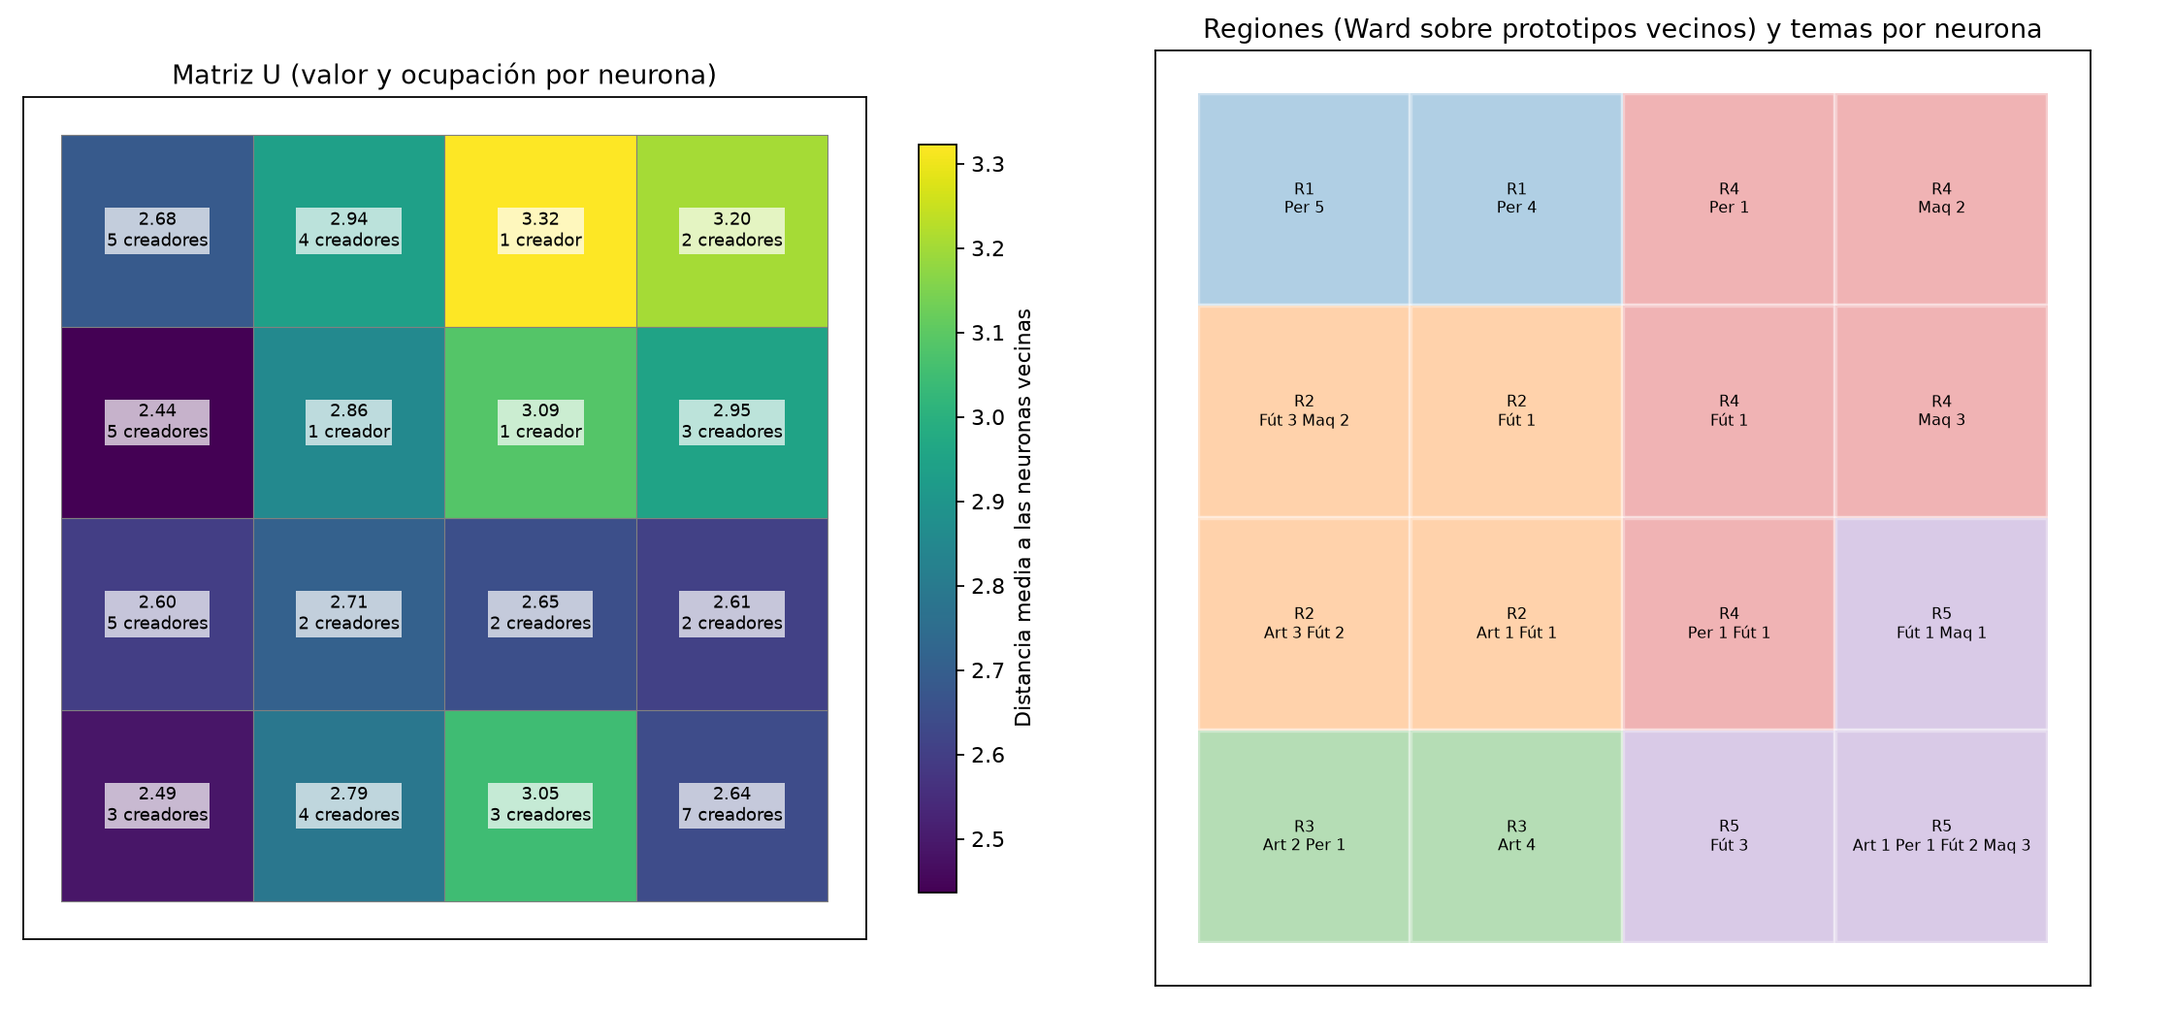
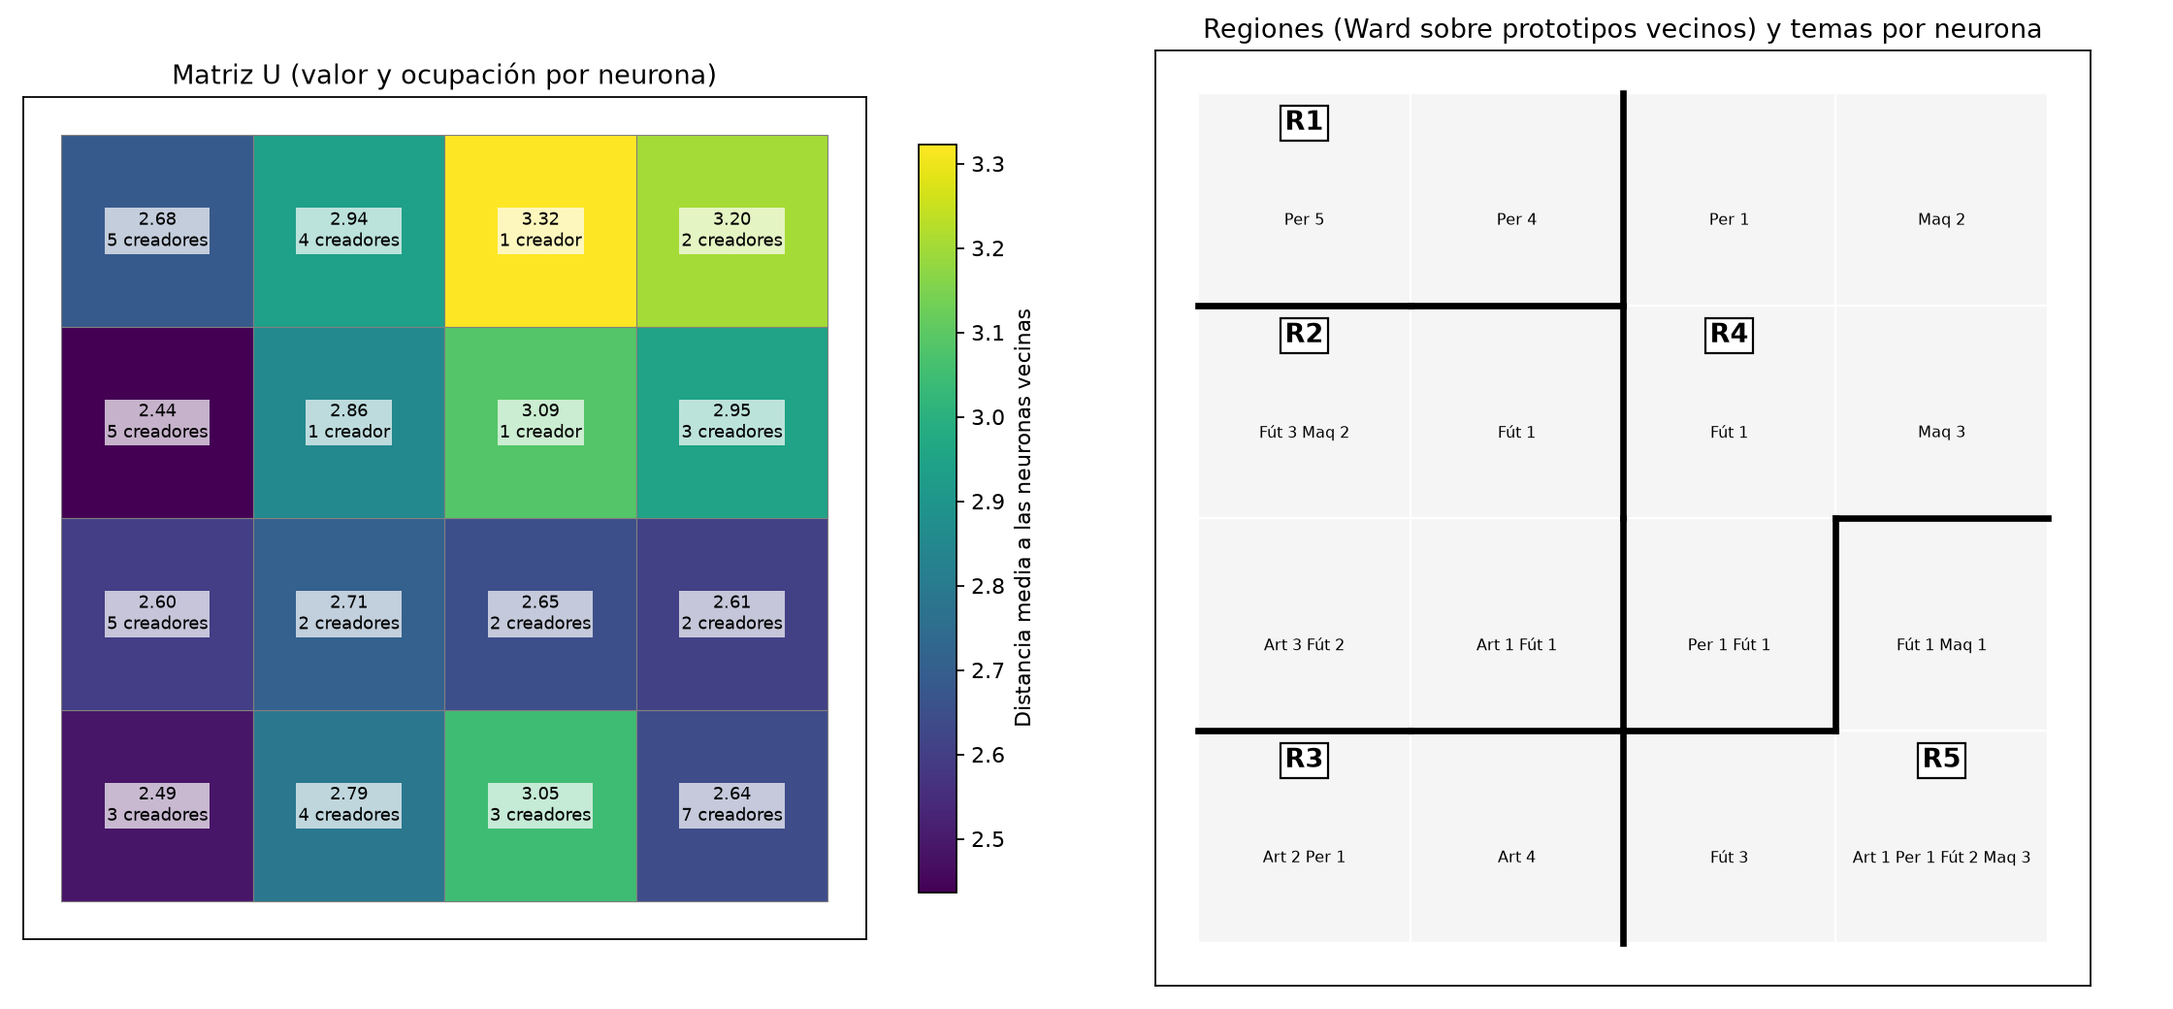
feat(tp4): cruza regiones y temas y deja el color solo para los temas
Agrega el grafico de regiones por tema (pureza y V de Cramer frente a
regiones al azar). Las regiones se dibujan con bordes y etiquetas en
lugar de colores, que en todo el informe identifican temas.

diff --git a/TP4/analysis/som_plots.py b/TP4/analysis/som_plots.py
@@ -6,10 +6,8 @@ from matplotlib.collections import PolyCollection
 import numpy as np
 
 from .eda import TOPICS
-from .plots import TOPIC_LABELS, _save
+from .plots import TOPIC_COLORS, TOPIC_LABELS, _save, _topic_legend
 
-REGION_COLORS = [f'C{index}' for index in range(10)]
-TOPIC_MARKERS = dict(zip(TOPICS, 'os^D'))
 LOG_PLANES = {'followers', 'price_usd'}
 
 
@@ -38,22 +36,48 @@ def plot_map(catalog, topics, output):
                      bbox={'facecolor': 'white', 'alpha': .7, 'edgecolor': 'none', 'pad': 1})
     axes[0].set_title('Matriz U (valor y ocupación por neurona)')
 
-    colors = [REGION_COLORS[label] for label in catalog.neuron_regions]
-    polygons = [grid.layout.cell_vertices(center) for center in grid.positions]
-    axes[1].add_collection(PolyCollection(polygons, facecolors=colors, alpha=.35, edgecolors='white', linewidths=2))
-    axes[1].autoscale_view()
-    axes[1].invert_yaxis()
-    axes[1].set_aspect('equal')
-    axes[1].set_xticks([])
-    axes[1].set_yticks([])
-    for neuron, ((column, row), label) in enumerate(zip(grid.positions, catalog.neuron_regions)):
+    draw_region_map(axes[1], catalog)
+    for neuron, (column, row) in enumerate(grid.positions):
         members = catalog.winners == neuron
         composition = ' '.join(f'{TOPIC_LABELS[t][:3]} {count}' for t, count in
                                zip(*np.unique(topics[members], return_counts=True))) if members.any() else 'vacía'
-        axes[1].text(column, row, f'{catalog.region_names[label]}\n{composition}', ha='center', va='center',
-                     fontsize=7)
+        axes[1].text(column, row + .1, composition, ha='center', va='center', fontsize=7)
     axes[1].set_title('Regiones (Ward sobre prototipos vecinos) y temas por neurona')
     _save(fig, output / 'mapa.png')
+
+
+def draw_region_map(ax, catalog, facecolors='whitesmoke'):
+    """Grilla con los bordes de las regiones y su nombre. Las regiones no usan color de relleno, porque los
+    colores del informe identifican temas; facecolors permite pintar cada neurona con otra variable."""
+    grid = catalog.som.grid
+    polygons = [grid.layout.cell_vertices(center) for center in grid.positions]
+    ax.add_collection(PolyCollection(polygons, facecolors=facecolors, edgecolors='white', linewidths=1))
+    draw_region_borders(ax, catalog)
+    for label, region in enumerate(catalog.region_names):
+        # La etiqueta va en la neurona de la región más cercana a su centro: el centro puede caer en un borde.
+        cells = grid.positions[catalog.neuron_regions == label]
+        column, row = cells[np.linalg.norm(cells - cells.mean(axis=0), axis=1).argmin()]
+        ax.text(column, row - .36, region, ha='center', va='center', weight='bold', fontsize=12,
+                bbox={'facecolor': 'white', 'edgecolor': 'black', 'pad': 2})
+    ax.autoscale_view()
+    ax.invert_yaxis()
+    ax.set_aspect('equal')
+    ax.set_xticks([])
+    ax.set_yticks([])
+
+
+def draw_region_borders(ax, catalog):
+    """Línea gruesa en cada lado compartido por dos neuronas vecinas de regiones distintas."""
+    grid = catalog.som.grid
+    first, second = np.where(np.triu(grid.adjacency, 1))
+    for a, b in zip(first, second):
+        if catalog.neuron_regions[a] == catalog.neuron_regions[b]:
+            continue
+        vertices_b = grid.layout.cell_vertices(grid.positions[b])
+        shared = [vertex for vertex in grid.layout.cell_vertices(grid.positions[a])
+                  if np.min(np.linalg.norm(vertices_b - vertex, axis=1)) < 1e-6]
+        if len(shared) == 2:
+            ax.plot(*np.array(shared).T, color='black', lw=3)
 
 
 def plot_component_planes(grid, planes, output):
@@ -73,21 +97,17 @@ def plot_component_planes(grid, planes, output):
 
 
 def plot_regions_on_pca(frame, output):
-    """Plano PC1–PC2 del biplot con cada creador coloreado por su región del SOM."""
+    """Plano PC1–PC2 del biplot: cada creador con el color de su tema y cada región como el contorno de sus creadores."""
+    from scipy.spatial import ConvexHull
     fig, ax = plt.subplots(figsize=(11, 8))
-    regions = sorted(frame.region.unique())
-    for index, region in enumerate(regions):
-        members = frame[frame.region == region]
-        for topic, marker in TOPIC_MARKERS.items():
-            subset = members[members.main_topic == topic]
-            ax.scatter(subset.pc1, subset.pc2, color=REGION_COLORS[index], marker=marker, s=45)
-        ax.annotate(region, (members.pc1.mean(), members.pc2.mean()), fontsize=14, weight='bold',
-                    color=REGION_COLORS[index], ha='center', va='center')
-    region_handles = [plt.Line2D([], [], marker='o', ls='', color=REGION_COLORS[index]) for index in range(len(regions))]
-    topic_handles = [plt.Line2D([], [], marker=marker, ls='', color='gray') for marker in TOPIC_MARKERS.values()]
-    first = ax.legend(region_handles, regions, title='Región SOM', loc='upper left')
-    ax.add_artist(first)
-    ax.legend(topic_handles, [TOPIC_LABELS[topic] for topic in TOPICS], title='Tema principal', loc='upper right')
+    ax.scatter(frame.pc1, frame.pc2, c=frame.main_topic.map(TOPIC_COLORS), s=45)
+    for region in sorted(frame.region.unique()):
+        points = frame.loc[frame.region == region, ['pc1', 'pc2']].to_numpy()
+        hull = points[ConvexHull(points).vertices]
+        ax.fill(*hull.T, facecolor='none', edgecolor='dimgray', lw=1.5, ls='--')
+        ax.text(*points.mean(axis=0), region, fontsize=13, weight='bold', ha='center', va='center',
+                bbox={'facecolor': 'white', 'edgecolor': 'black', 'pad': 2})
+    _topic_legend(ax, loc='upper right')
     ax.axhline(0, color='black', lw=.4)
     ax.axvline(0, color='black', lw=.4)
     ax.set(xlabel='PC1 (− visibilidad · + profundidad)', ylabel='PC2 (+ arte y exhibición · − audiencia argentina y perros)',
@@ -118,16 +138,20 @@ def plot_region_agreement(reference, partitions, output):
 
 
 def plot_regions_3d(frame, output):
-    """PC1–PC3 coloreado por región del SOM: muestra qué separa el mapa más allá del plano del biplot."""
+    """PC1–PC3 con el color de cada tema y el nombre de cada región en su centro: muestra qué separa el mapa
+    más allá del plano del biplot."""
     from .plots import scatter_3d
-    regions = sorted(frame.region.unique())
-    colors = frame.region.map({region: REGION_COLORS[index] for index, region in enumerate(regions)}).to_numpy()
+    scores = frame[['pc1', 'pc2', 'pc3']].to_numpy()
+    colors = frame.main_topic.map(TOPIC_COLORS).to_numpy()
+    centers = frame.groupby('region')[['pc1', 'pc2', 'pc3']].mean()
     fig = plt.figure(figsize=(15, 6.5))
     for position, (elevation, azimuth) in enumerate([(20, -60), (15, 30)], start=1):
         ax = fig.add_subplot(1, 2, position, projection='3d')
-        scatter_3d(ax, frame[['pc1', 'pc2', 'pc3']].to_numpy(), colors, ['PC1', 'PC2', 'PC3'])
+        scatter_3d(ax, scores, colors, ['PC1', 'PC2', 'PC3'])
+        for region, center in centers.iterrows():
+            ax.text(*center, region, fontsize=12, weight='bold', ha='center',
+                    bbox={'facecolor': 'white', 'edgecolor': 'black', 'pad': 2})
         ax.view_init(elevation, azimuth)
-    handles = [plt.Line2D([], [], marker='o', ls='', color=REGION_COLORS[index]) for index in range(len(regions))]
-    fig.axes[0].legend(handles, regions, title='Región SOM', loc='upper left')
+    _topic_legend(fig.axes[0], loc='upper left')
     fig.suptitle('Regiones del SOM en PC1–PC3: dos vistas')
     _save(fig, output / 'regiones_pca_3d.png')

diff --git a/TP4/analysis/campaign_plots.py b/TP4/analysis/campaign_plots.py
@@ -5,13 +5,13 @@ Cada gráfico muestra un resultado de los métodos (PCA, Oja, Kohonen) sobre el 
 import matplotlib
 matplotlib.use('Agg')
 import matplotlib.pyplot as plt
-from matplotlib.colors import ListedColormap
+from matplotlib.colors import to_rgba
 from matplotlib.ticker import LogLocator, ScalarFormatter
 import numpy as np
 
 from .eda import TOPICS
 from .plots import TOPIC_COLORS, TOPIC_LABELS, _save
-from .som_plots import REGION_COLORS, _cells
+from .som_plots import _cells, draw_region_borders, draw_region_map
 
 COST_LABEL = 'USD por 1.000 cuentas argentinas'
 FOLLOWERS_COLOR, CHOSEN_COLOR, OTHER_COLOR = 'C1', 'C0', 'lightgray'
@@ -77,24 +77,54 @@ def plot_map_targets(catalog, ar_plane, chosen, target_regions, output):
     """Izquierda: regiones del mapa con la región de cada cliente y sus elegidos. Derecha: plano de audiencia argentina."""
     grid = catalog.som.grid
     fig, axes = plt.subplots(1, 2, figsize=(15, 6.5))
-    regions = _cells(axes[0], grid, catalog.neuron_regions, ListedColormap(REGION_COLORS[:len(catalog.region_names)]),
-                     edgecolors='white', linewidths=2)
-    regions.set_alpha(.35)
+    draw_region_map(axes[0], catalog)
     neurons = chosen.neuron.to_numpy()
-    for position, ((column, row), label) in enumerate(zip(grid.positions, catalog.neuron_regions)):
+    for position, (column, row) in enumerate(grid.positions):
         cell = '{},{}'.format(*grid.indices[position])
         names = '\n'.join(chosen.name[neurons == cell])
-        axes[0].text(column, row - .32, catalog.region_names[label], ha='center', va='center', weight='bold')
-        axes[0].text(column, row + .08, names, ha='center', va='center', fontsize=7)
+        axes[0].text(column, row + .12, names, ha='center', va='center', fontsize=7)
     axes[0].set_title('Regiones y elegidos\n' + _client_targets(target_regions))
 
     plane = _cells(axes[1], grid, ar_plane, 'viridis')
     fig.colorbar(plane, ax=axes[1], shrink=.8, label='Audiencia argentina del prototipo (%)')
+    draw_region_borders(axes[1], catalog)
     for position, ((column, row), label) in enumerate(zip(grid.positions, catalog.neuron_regions)):
         axes[1].text(column, row, f'{catalog.region_names[label]}\n{ar_plane[position]:.0f} %', ha='center',
                      va='center', fontsize=9, bbox={'facecolor': 'white', 'alpha': .7, 'edgecolor': 'none', 'pad': 1})
     axes[1].set_title('Plano de audiencia argentina')
     _save(fig, output / '3_mapa_clientes.png')
+
+
+def plot_region_topics(catalog, topics, association, output):
+    """Izquierda: cada neurona con el color de su tema mayoritario y los bordes de las regiones encima.
+    Derecha: composición temática de cada región."""
+    grid = catalog.som.grid
+    fig, axes = plt.subplots(1, 2, figsize=(15, 6.5), gridspec_kw={'width_ratios': [1, 1.1]})
+    facecolors = []
+    for neuron, (column, row) in enumerate(grid.positions):
+        names, counts = np.unique(topics[catalog.winners == neuron], return_counts=True)
+        # Más intenso cuanto mayor es la fracción del tema mayoritario en la neurona.
+        facecolors.append(to_rgba(TOPIC_COLORS[names[counts.argmax()]], .25 + .6 * counts.max() / counts.sum()))
+        composition = '\n'.join(f'{TOPIC_LABELS[name]} {count}' for name, count in
+                                sorted(zip(names, counts), key=lambda pair: -pair[1]))
+        axes[0].text(column, row + .08, composition, ha='center', va='center', fontsize=8)
+    draw_region_map(axes[0], catalog, facecolors)
+    axes[0].set_title('Tema mayoritario por neurona (más intenso = más puro) y regiones')
+
+    counts = association.counts
+    left = np.zeros(len(counts))
+    for topic in TOPICS:
+        axes[1].barh(counts.index, counts[topic], left=left, color=TOPIC_COLORS[topic], label=TOPIC_LABELS[topic])
+        for position, (start, value) in enumerate(zip(left, counts[topic])):
+            if value:
+                axes[1].text(start + value / 2, position, str(value), ha='center', va='center', color='white')
+        left += counts[topic].to_numpy()
+    axes[1].invert_yaxis()
+    axes[1].set(xlabel='Creadores', title=(
+        f'Pureza {_decimal(association.purity, ".2f")} (azar {_decimal(association.random_purity, ".2f")}) · '
+        f'V de Cramér {_decimal(association.cramers_v, ".2f")} (azar {_decimal(association.random_cramers_v, ".2f")})'))
+    axes[1].legend(title='Tema principal', loc='upper left', bbox_to_anchor=(1.01, 1))
+    _save(fig, output / '4_regiones_temas.png')
 
 
 def _client_targets(target_regions):
@@ -116,7 +146,7 @@ def plot_region_separation(separation, random_baseline, output):
     for position, value in enumerate(ordered):
         ax.text(value + .01, position, _decimal(value, '.2f'), va='center')
     ax.set(xlabel='η² por región', xlim=(0, 1))
-    _save(fig, output / '4_separacion.png')
+    _save(fig, output / '5_separacion.png')
 
 
 def plot_candidates(frame, selections, target_regions, output):
@@ -144,7 +174,7 @@ def plot_candidates(frame, selections, target_regions, output):
                plt.Line2D([], [], marker='s', ls='', mfc='none', mec=FOLLOWERS_COLOR, ms=12, label='Top 3 por seguidores'),
                plt.Line2D([], [], marker='o', ls='', mfc='none', mec='black', ms=12, label='Elegidos')]
     fig.legend(handles=handles, loc='upper center', ncol=4, frameon=False)
-    _save(fig, output / '5_candidatos.png', rect=(0, 0, 1, .96))
+    _save(fig, output / '6_candidatos.png', rect=(0, 0, 1, .96))
 
 
 def _ring(ax, creators, color, marker, label):
@@ -192,4 +222,4 @@ def plot_against_followers(selections, output):
     for position, (before, after) in enumerate(zip(table['cpm_arg', 'seguidores'], table['cpm_arg', 'som'])):
         axes[0].text(position + width / 2, after, _decimal(after / before - 1, '+.0%'), ha='center', va='bottom')
     fig.legend(*axes[0].get_legend_handles_labels(), loc='upper center', ncol=2, frameon=False)
-    _save(fig, output / '6_frente_a_seguidores.png', rect=(0, 0, 1, .92))
+    _save(fig, output / '7_frente_a_seguidores.png', rect=(0, 0, 1, .92))

diff --git a/TP4/analysis/som_campanas.py b/TP4/analysis/som_campanas.py
@@ -140,6 +140,37 @@ def region_separation(frame):
     return separation, random_baseline
 
 
+@dataclass(frozen=True)
+class TopicAssociation:
+    """Cruce región × tema, con pureza y V de Cramér frente a regiones del mismo tamaño asignadas al azar."""
+    counts: pd.DataFrame
+    purity: float
+    cramers_v: float
+    random_purity: float
+    random_cramers_v: float
+
+
+def region_topic_association(frame, permutations=1000, seed=0):
+    regions, topics = frame.region.to_numpy(), frame.main_topic.to_numpy()
+    rng = np.random.default_rng(seed)
+    shuffled = [rng.permutation(regions) for _ in range(permutations)]
+    return TopicAssociation(
+        counts=pd.crosstab(frame.region, frame.main_topic).reindex(columns=TOPICS, fill_value=0),
+        purity=topic_purity(regions, topics), cramers_v=cramers_v(regions, topics),
+        random_purity=float(np.mean([topic_purity(sample, topics) for sample in shuffled])),
+        random_cramers_v=float(np.mean([cramers_v(sample, topics) for sample in shuffled])))
+
+
+def cramers_v(first, second):
+    """Asociación entre dos variables categóricas: 0 si son independientes, 1 si una determina a la otra."""
+    table = pd.crosstab(np.asarray(first), np.asarray(second)).to_numpy()
+    if min(table.shape) < 2:
+        raise ValueError('V de Cramér requiere al menos dos categorías en cada variable')
+    expected = table.sum(axis=1, keepdims=True) * table.sum(axis=0, keepdims=True) / table.sum()
+    chi_squared = ((table - expected) ** 2 / expected).sum()
+    return float(np.sqrt(chi_squared / (table.sum() * (min(table.shape) - 1))))
+
+
 def topic_region_options(frame):
     """Qué tipos de creador hay para cada cliente: candidatos de su tema, separados por región."""
     grouped = frame.groupby(['main_topic', 'region'])
@@ -269,6 +300,7 @@ def _plot_campaigns(frame, x, preprocessor, catalog, criteria, selections, outpu
     plots.plot_oja_axis(frame, criteria, chosen, output)
     ar_plane = neuron_planes(catalog, preprocessor)['argentina_audience_pct']
     plots.plot_map_targets(catalog, ar_plane, chosen, TARGET_REGIONS, output)
+    plots.plot_region_topics(catalog, frame.main_topic.to_numpy(), region_topic_association(frame), output)
     plots.plot_region_separation(*region_separation(frame), output)
     plots.plot_candidates(frame, selections, TARGET_REGIONS, output)
     plots.plot_against_followers(selections, output)

diff --git a/TP4/tests/test_som_regions.py b/TP4/tests/test_som_regions.py
@@ -4,7 +4,7 @@ import unittest
 import numpy as np
 import pandas as pd
 
-from analysis.som_campanas import _order_by_median, region_separation
+from analysis.som_campanas import _order_by_median, cramers_v, region_separation
 from analysis.som_pca_comparison import aligned_to_reference
 from analysis.som_regions import co_assignment, contiguous_ward, membership_firmness
 from src.tp4.geometry import Grid
@@ -74,6 +74,18 @@ class SeparationTests(unittest.TestCase):
     def test_random_baseline_is_the_expected_eta_squared_of_random_groups(self):
         _, baseline = region_separation(self.frame)
         self.assertAlmostEqual(baseline, (3 - 1) / (6 - 1))
+
+
+class CramersVTests(unittest.TestCase):
+    def test_is_one_when_the_region_determines_the_topic(self):
+        self.assertAlmostEqual(cramers_v(['R1', 'R1', 'R2', 'R2'], ['dogs', 'dogs', 'art', 'art']), 1.0)
+
+    def test_is_zero_when_every_region_has_the_same_topic_mix(self):
+        self.assertAlmostEqual(cramers_v(['R1', 'R1', 'R2', 'R2'], ['dogs', 'art', 'dogs', 'art']), 0.0)
+
+    def test_rejects_a_single_category(self):
+        with self.assertRaises(ValueError):
+            cramers_v(['R1', 'R1'], ['dogs', 'art'])
 
 
 if __name__ == '__main__':

diff --git a/TP4/reports/ejercicio1/campanas/README.md b/TP4/reports/ejercicio1/campanas/README.md
@@ -48,11 +48,20 @@ El mapa agrupa a los creadores en cinco regiones contiguas, estables entre semil
 | R4 | Entretenimiento mediano | −1,3 | −0,7 |
 | R5 | Entretenimiento masivo | −4,9 | −0,6 |
 
+**Las regiones también separan los temas**, aunque el tema es solo 4 de las 27 variables de entrada:
+
+![Regiones y temas](4_regiones_temas.png)
+
+- R1 tiene solo perros (9 de 9) y R3, casi solo arte (6 de 7). Maquillaje ocupa la columna derecha (R4 y la esquina de R5) y fútbol, el centro de R2 y R5.
+- La pureza de tema, la fracción de creadores que comparten región con la mayoría de su tema, es 0,66. Con las mismas regiones asignadas al azar es 0,40.
+- La V de Cramér, la asociación entre dos variables categóricas (0 independientes, 1 una determina a la otra), es 0,64 frente a 0,28 al azar.
+- Las regiones de entretenimiento (R4 y R5) mezclan temas: ahí el mapa agrupa primero por tamaño y formato. Por eso fútbol y maquillaje comparten regiones objetivo.
+
 Cada región es un tipo de creador, y el objetivo de cada cliente pide uno: **la decisión de qué tipo de creador contratar sale del mapa**.
 
 ### Lo que el mapa no separa: audiencia argentina y costo
 
-![η² por región](4_separacion.png)
+![η² por región](5_separacion.png)
 
 Las regiones explican tamaño (η² 0,71), alcance a no seguidores (0,48) y tutoriales (0,47), pero la audiencia argentina (0,08) y el costo por cuenta argentina (0,02) quedan al nivel del azar. El plano de audiencia argentina (derecha en la figura del mapa) es alto solo en dos esquinas: la neurona de R1 con perros de comunidad (69 %) y la neurona de R5 con los masivos locales (63 %). En el resto de cada región hay creadores con 25 % y con 90 %.
 
@@ -69,7 +78,7 @@ Supuestos:
 - El catálogo no tiene ventas, consultas ni adopciones: la elección optimiza llegar al público adecuado con el contenido adecuado, no conversiones medidas.
 - Qué región sirve a cada objetivo es un juicio sobre el perfil de la región; se explica en cada caso.
 
-![Candidatos por cliente](5_candidatos.png)
+![Candidatos por cliente](6_candidatos.png)
 
 Cada panel muestra los creadores del tema del cliente: en color los de la región elegida, abajo a la derecha los baratos por cuenta argentina y con mucha audiencia local. Los cuadrados son el top 3 por seguidores y los círculos, la selección.
 
@@ -146,7 +155,7 @@ R3 reúne a 6 de los 11 creadores de arte. Es la región con más exhibición de
 
 ## Frente a elegir solo por seguidores
 
-![Top 3 por seguidores frente a la selección propuesta](6_frente_a_seguidores.png)
+![Top 3 por seguidores frente a la selección propuesta](7_frente_a_seguidores.png)
 
 | Tema | USD / 1.000 AR: seguidores → elegido | Audiencia AR | Tres publicaciones (USD) |
 | --- | --- | --- | --- |
